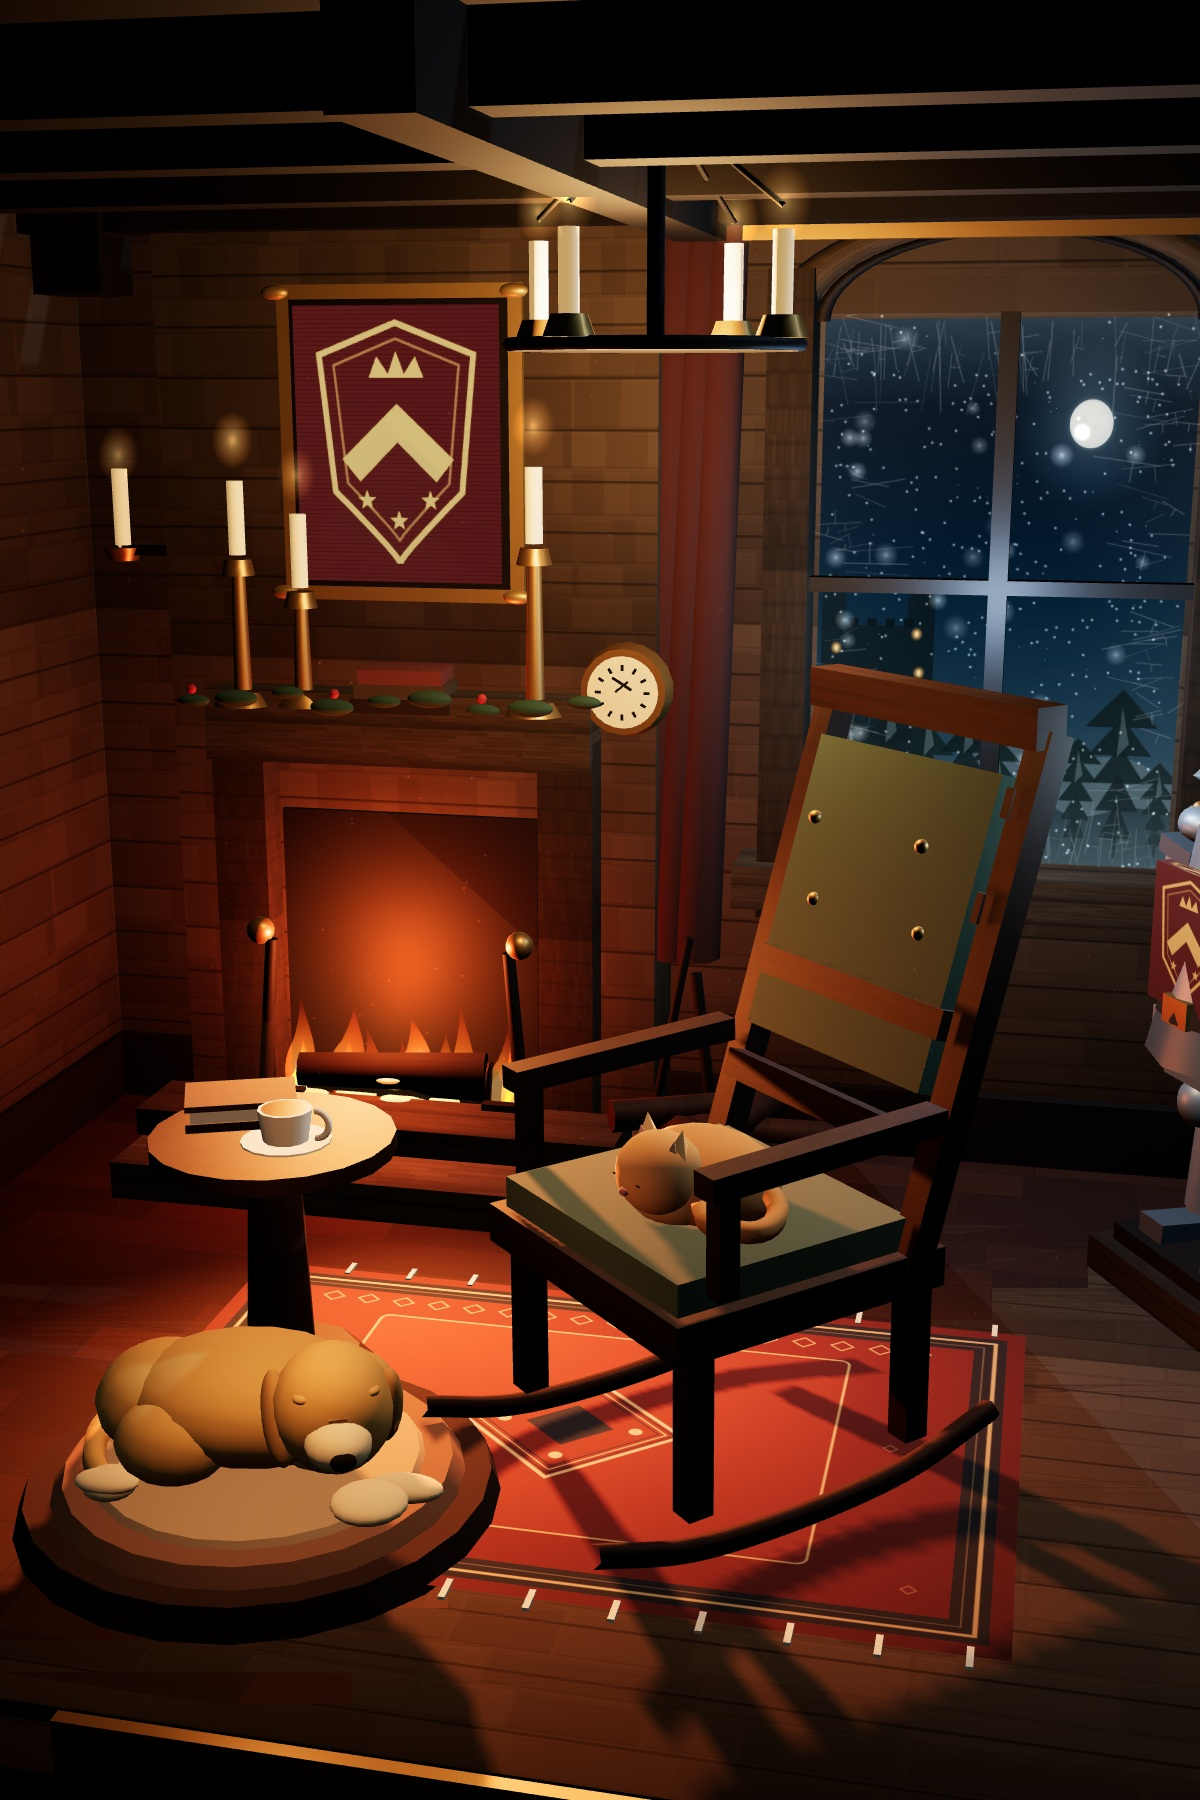
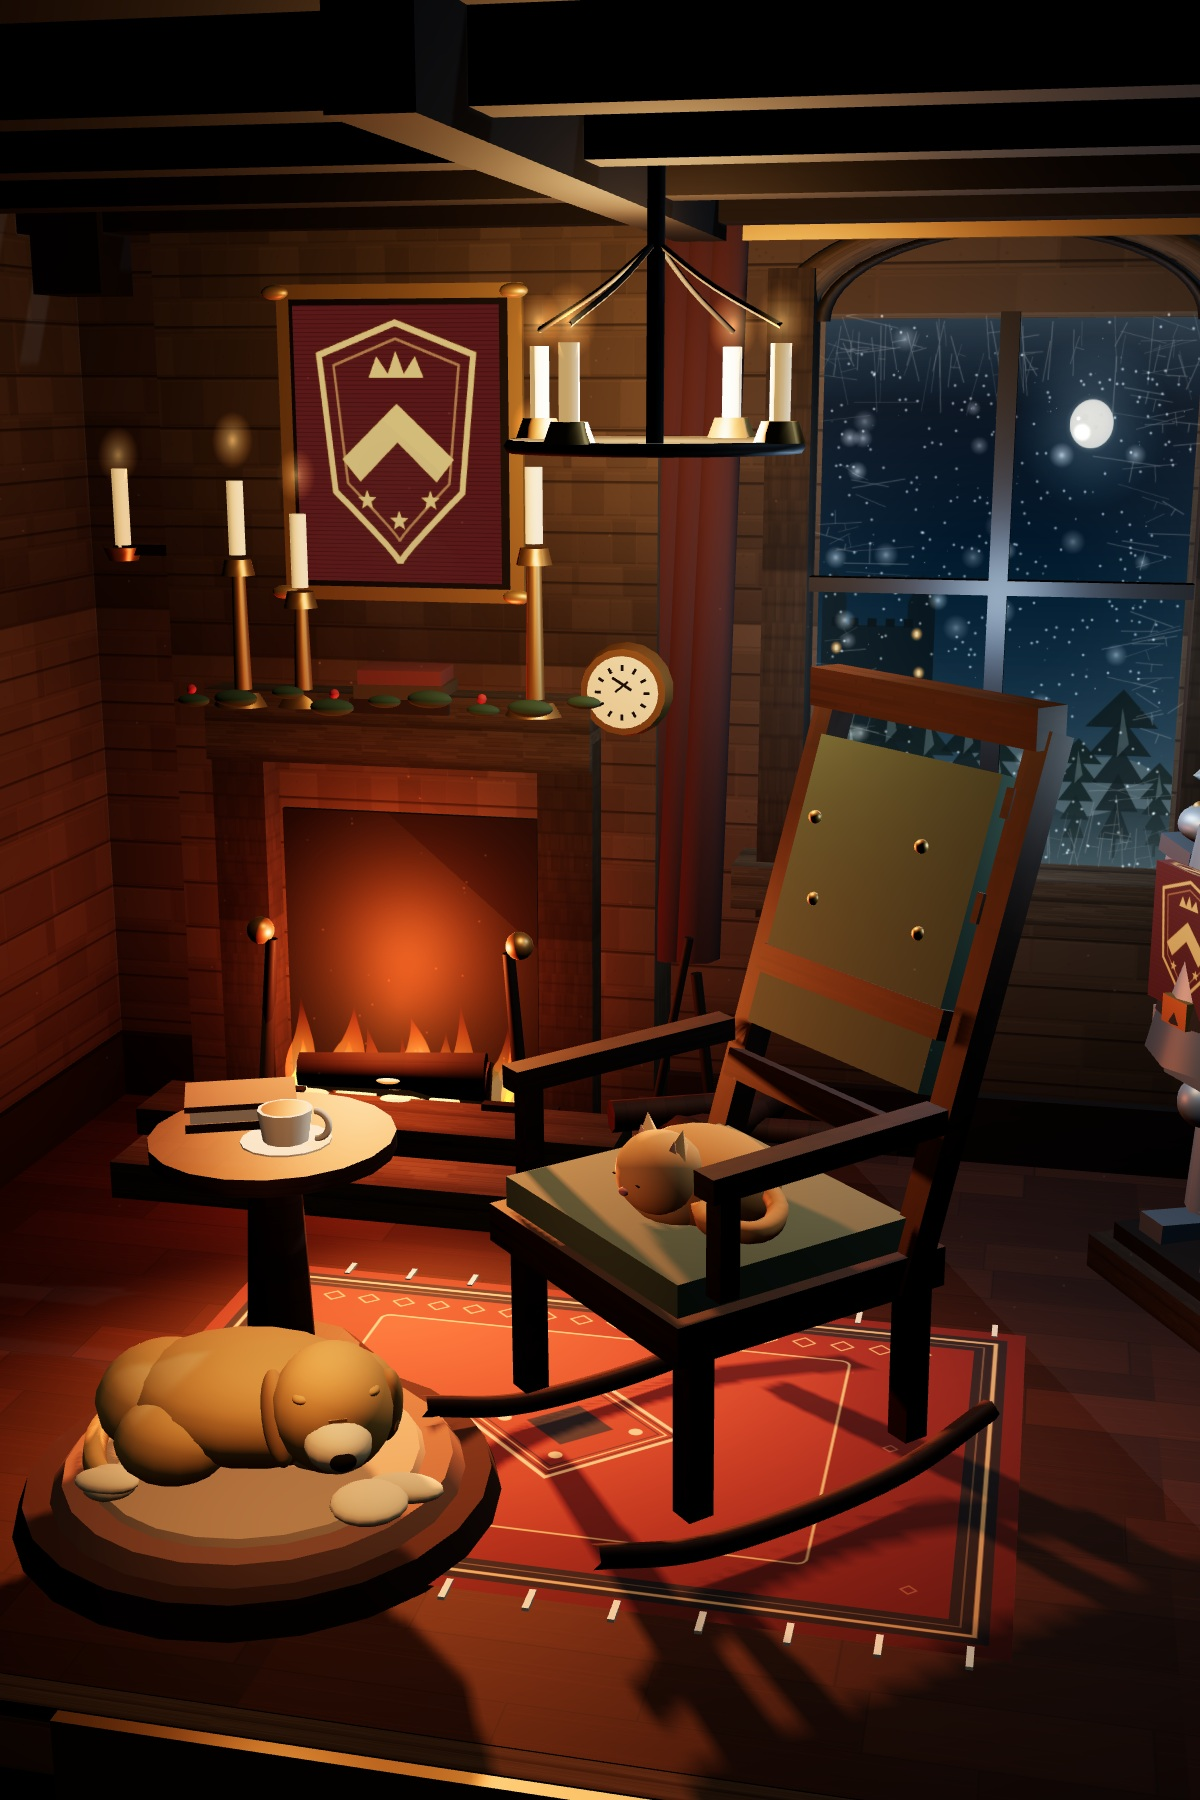
fix: 降低吊灯，给烛火留出屋顶间距
吊灯整体下移 19cm，吊杆相应加长，蜡烛略缩短，
烛焰与顶梁之间留出清楚的安全距离；同步换用新海报。

diff --git a/hearth-keep/index.html b/hearth-keep/index.html
@@ -1336,9 +1336,9 @@ for (const z of [-.52, .6]) sphere(.05, M.brass, -1.67, 2.08, z, room, false);
 
 // chandelier
 const chand = new THREE.Group();
-chand.position.set(.08, 2.05, -.12);
+chand.position.set(.08, 1.86, -.12);
 room.add(chand);
-cyl(.018, .018, .46, 6, M.iron, 0, .23, 0, chand, false);
+cyl(.018, .018, .66, 6, M.iron, 0, .33, 0, chand, false);
 const chandRing = new THREE.Mesh(new THREE.TorusGeometry(.28, .014, 6, 24), M.iron);
 chandRing.rotation.x = Math.PI / 2;
 chand.add(chandRing);
@@ -1346,16 +1346,16 @@ for (let i = 0; i < 4; i++){
   const a = i / 4 * TAU + .4;
   const gx = Math.cos(a) * .28, gz = Math.sin(a) * .28;
   cyl(.035, .05, .04, 8, M.brass, gx, .03, gz, chand, false);
-  cyl(.02, .02, .16, 8, M.candle, gx, .12, gz, chand, false);
+  cyl(.02, .02, .14, 8, M.candle, gx, .12, gz, chand, false);
   const flame = new THREE.Sprite(new THREE.SpriteMaterial({ map: warmGlowTex, color: 0xffd9a0, transparent: true, blending: THREE.AdditiveBlending, depthWrite: false, opacity: .75 }));
-  flame.position.set(gx, .25, gz);
+  flame.position.set(gx, .23, gz);
   flame.scale.set(.12, .16, 1);
   chand.add(flame);
   candleFlames.push({ sprite: flame, phase: rng() * TAU, baseY: flame.position.y, lit: true, scope: 'chandelier' });
 }
 for (let i = 0; i < 4; i++){
   const a = i / 4 * TAU + .4;
-  tube([[0, .48, 0], [Math.cos(a) * .12, .36, Math.sin(a) * .12], [Math.cos(a) * .28, .24, Math.sin(a) * .28]], .006, M.iron, chand, 8);
+  tube([[0, .38, 0], [Math.cos(a) * .12, .3, Math.sin(a) * .12], [Math.cos(a) * .28, .22, Math.sin(a) * .28]], .006, M.iron, chand, 8);
 }
 
 // logs in fireplace

diff --git a/index.html b/index.html
@@ -1041,7 +1041,7 @@
        data-no="09" data-title="炉火长夜" data-en="A Fire in the Keep"
        data-note="壁炉、铠甲、打盹的猫和金毛，把一场大雪关在窗外。"
        data-accent="#d7a15f" aria-label="进入《炉火长夜》">
-      <span class="card-media"><img src="hearth-keep/poster.jpg?v=20261105e" draggable="false" alt="长夜堡的冬夜会客厅，壁炉燃烧，铠甲守窗，猫趴在摇椅上，金毛睡在炉边" width="1200" height="1800" /></span>
+      <span class="card-media"><img src="hearth-keep/poster.jpg?v=20261105f" draggable="false" alt="长夜堡的冬夜会客厅，壁炉燃烧，铠甲守窗，猫趴在摇椅上，金毛睡在炉边" width="1200" height="1800" /></span>
       <span class="card-frame" aria-hidden="true"></span>
       <span class="card-top">
         <span class="card-meta"><span class="card-no">No. 09</span><span class="card-phase">冬堡 · 深夜 23:47</span></span>
